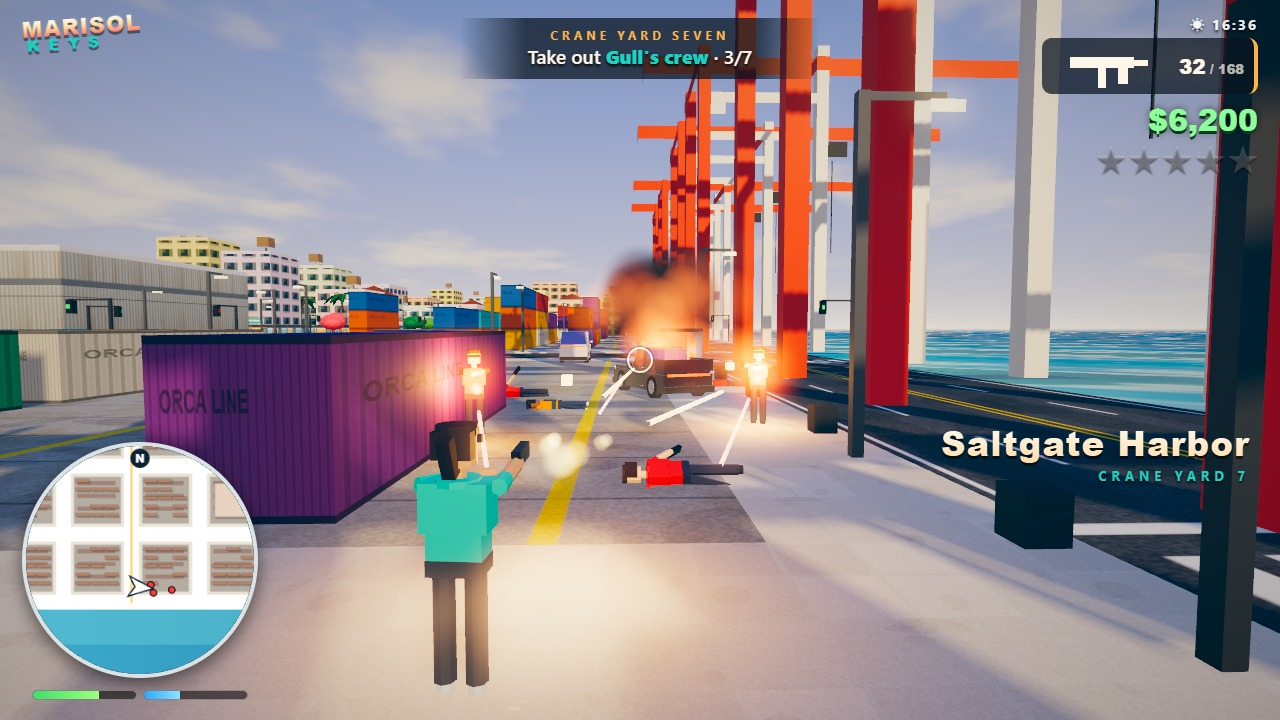
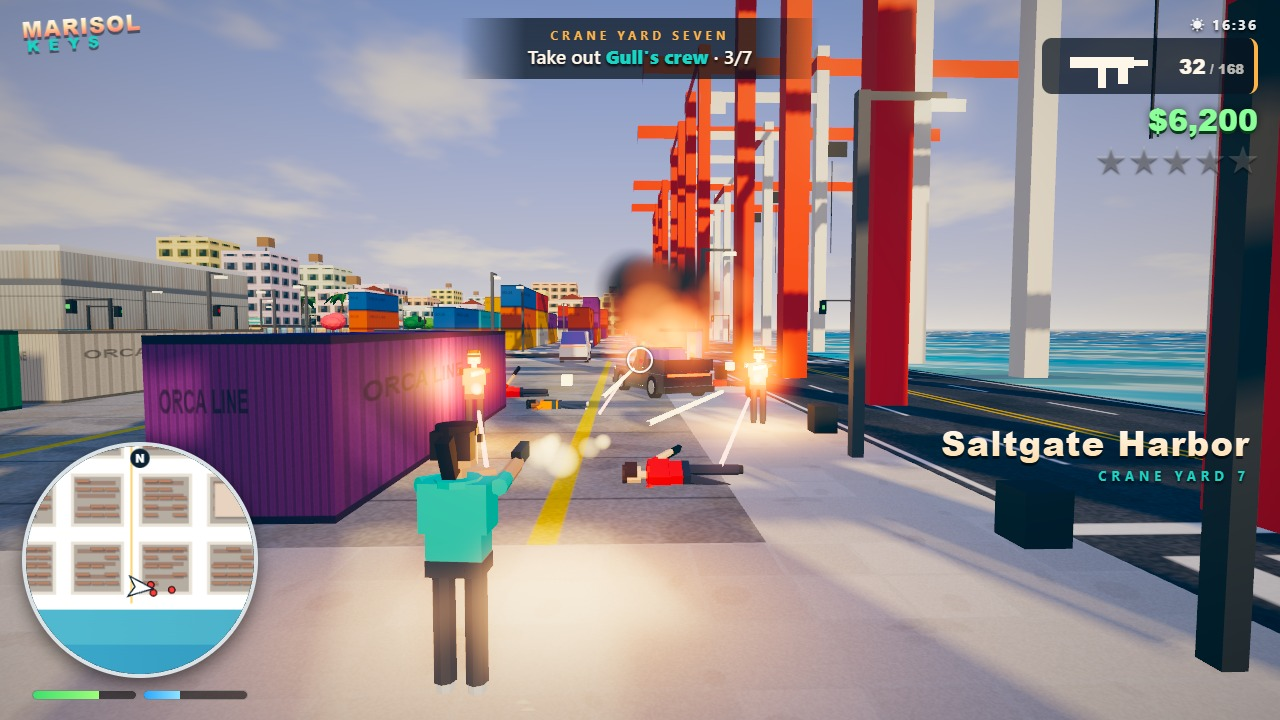
Some pedestrians walk and wait glued to their phones

Changed region(s): [[0.4375, 0.3361, 0.5938, 0.55], [0.4062, 0.6111, 0.4688, 0.6417]]

diff --git a/game/src/peds/pedSystem.js b/game/src/peds/pedSystem.js
@@ -1,6 +1,7 @@
 // Pedestrians: stroll sidewalk loops around blocks and the boardwalk, chat in pairs, flee from
 // gunfire and speeding cars, get knocked down, and report crimes they witness.
 
+import * as THREE from 'three';
 import { buildHuman, poseHuman, randomOutfit } from './humanModel.js';
 import { BLOCK, ROAD_HALF, blockLetter, isUrban } from '../world/cityPlan.js';
 import { groundHeight } from '../world/groundHeight.js';
@@ -13,6 +14,8 @@ import { nodes, lightFor } from '../roads/roadNetwork.js';
 
 let pedId = 1;
 export const pedClock = { time: 0 };   // game time, for reading the crossing lights
+const PHONE_GEO = new THREE.BoxGeometry(0.07, 0.14, 0.02);
+const PHONE_MAT = new THREE.MeshStandardMaterial({ color: '#111', emissive: '#4cc9f0', emissiveIntensity: 0.4 });
 
 export class Ped {
   constructor(scene, x, z, outfit, kind = 'civilian') {
@@ -127,6 +130,16 @@ export class Ped {
       else this.pos.y += (gy - this.pos.y) * Math.min(1, dt * 10);
     }
     poseHuman(this.rig, this.state === 'flee' ? 'flee' : moving ? 'walk' : 'idle', moving, dt);
+    // some people are glued to their phones: a call at the ear, or a screen held low
+    if (this.state !== 'flee' && this.id % 4 === 1) {
+      const arm = this.rig.userData.arms[1];
+      if (moving) arm.rotation.set(1.0, 0, 0.45); else arm.rotation.set(2.4, 0, 0.9);
+      if (!this.phone) {
+        this.phone = new THREE.Mesh(PHONE_GEO, PHONE_MAT);
+        this.phone.position.set(0, -0.68, -0.05);
+        arm.add(this.phone);
+      }
+    }
     this.rig.position.set(this.pos.x, this.pos.y, this.pos.z);
     this.rig.rotation.y = -this.heading;
   }
